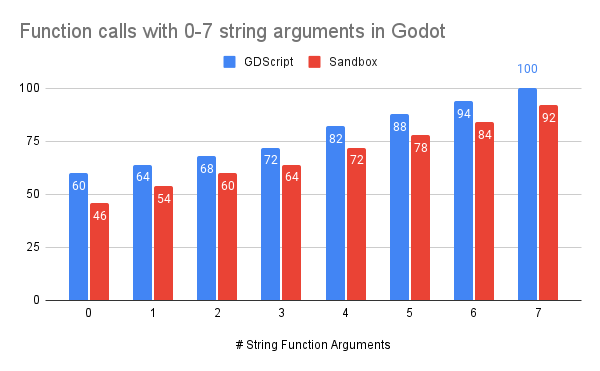
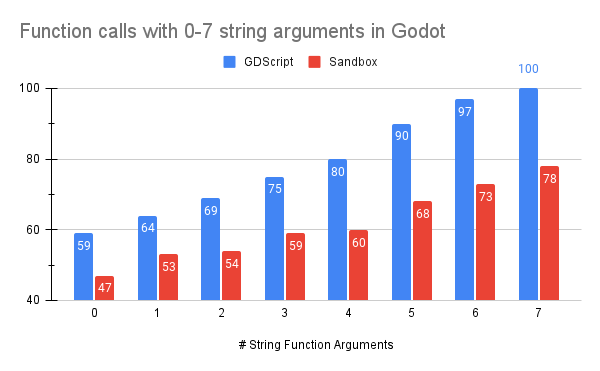
Update Godot strings benchmark

diff --git a/docs/performance/latency.md b/docs/performance/latency.md
@@ -49,7 +49,7 @@ In this made-up example we can't see the real measurements, but we can still see
 
 ## Godot engine integration
 
-When integrated into the [Godot engine](https://godotengine.org/), the fixed overheads outside of our control are 40ns for each call and we also use the Godot Variant as function arguments as a quality-of-life feature.
+When integrated into the [Godot engine](https://godotengine.org/), the fixed overheads outside of our control are 40ns for each call. This may be improved if and when the Sandbox is embedded directly into Godot. For now these are the reality:
 
 ![Function calls with integer arguments](/img/performance/vmcall_integer_args.png)
 
